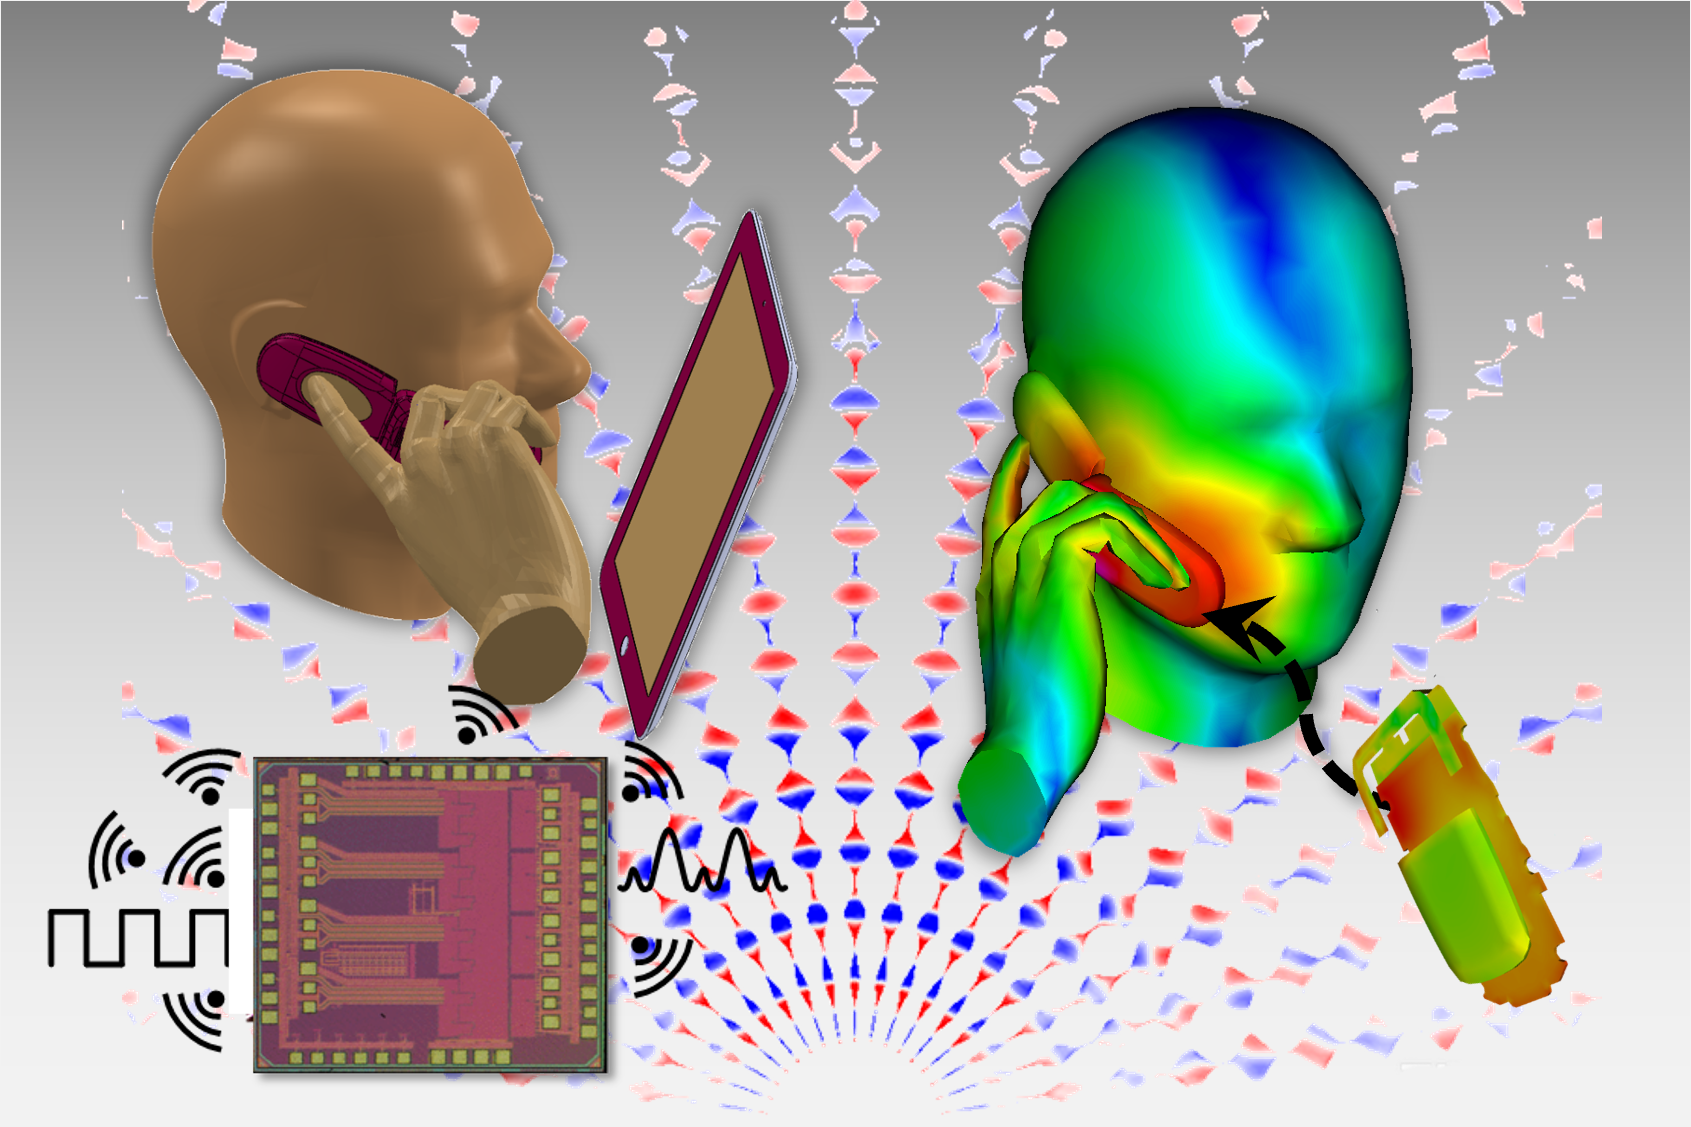
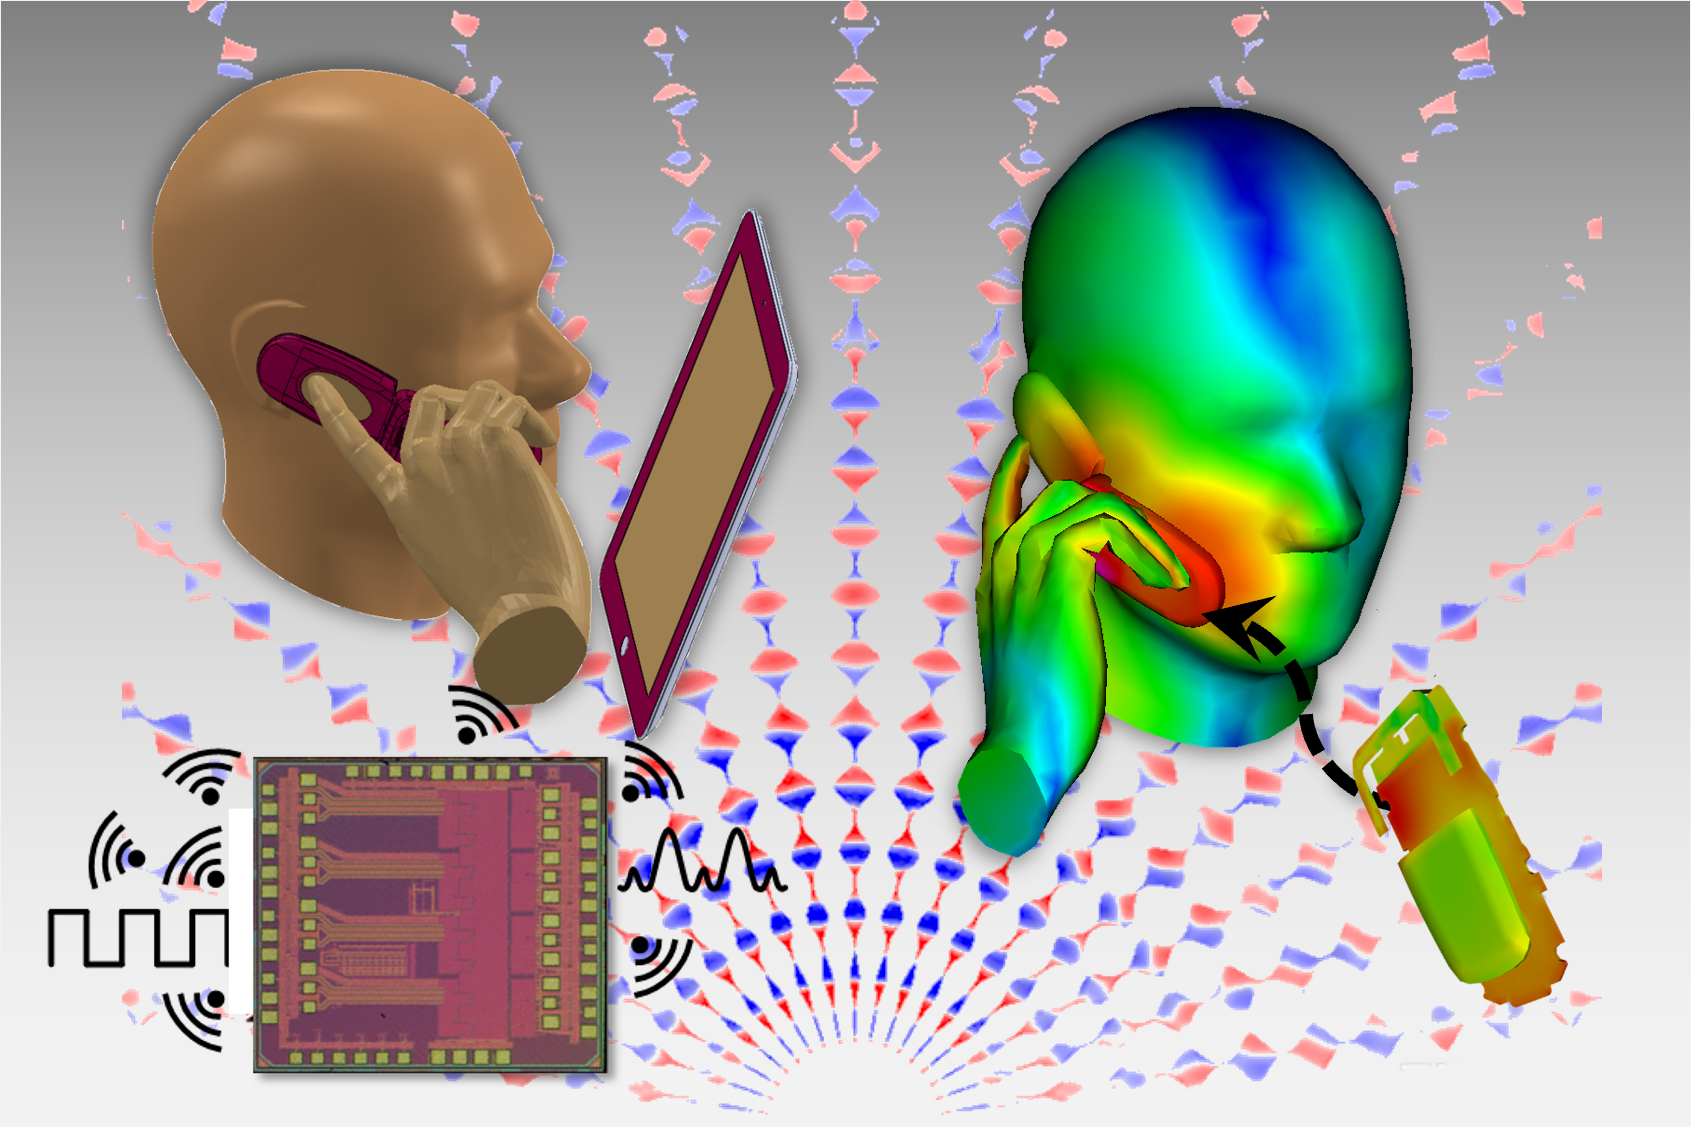
update

diff --git a/_projects/project_10_hmi.md b/_projects/project_10_hmi.md
@@ -1,0 +1,96 @@
+---
+layout: page
+title: Software
+description: software development, human-mahine interface 
+img: assets/img/projects/project_software.png
+importance: 10
+category: application
+research_id: hmi
+permalink: /projects/hmi/
+related_publications: false
+---
+
+Electronic systems provide an important example of strongly coupled
+multiphysics computation. Full-wave electromagnetic models are needed to
+capture wave propagation, radiation, coupling, and crosstalk, while
+integrated circuits may contain nonlinear and mixed-signal components that
+are more naturally treated by dedicated circuit simulators.1
+
+Every project has a beautiful feature showcase page.
+It's easy to include images in a flexible 3-column grid format.
+Make your photos 1/3, 2/3, or full width.
+
+To give your project a background in the portfolio page, just add the img tag to the front matter like so:
+
+    ---
+    layout: page
+    title: project
+    description: a project with a background image
+    img: /assets/img/12.jpg
+    ---
+
+<div class="row">
+    <div class="col-sm mt-3 mt-md-0">
+        {% include figure.liquid loading="eager" path="assets/img/1.jpg" title="example image" class="img-fluid rounded z-depth-1" %}
+    </div>
+    <div class="col-sm mt-3 mt-md-0">
+        {% include figure.liquid loading="eager" path="assets/img/3.jpg" title="example image" class="img-fluid rounded z-depth-1" %}
+    </div>
+    <div class="col-sm mt-3 mt-md-0">
+        {% include figure.liquid loading="eager" path="assets/img/5.jpg" title="example image" class="img-fluid rounded z-depth-1" %}
+    </div>
+</div>
+<div class="caption">
+    Caption photos easily. On the left, a road goes through a tunnel. Middle, leaves artistically fall in a hipster photoshoot. Right, in another hipster photoshoot, a lumberjack grasps a handful of pine needles.
+</div>
+<div class="row">
+    <div class="col-sm mt-3 mt-md-0">
+        {% include figure.liquid loading="eager" path="assets/img/5.jpg" title="example image" class="img-fluid rounded z-depth-1" %}
+    </div>
+</div>
+<div class="caption">
+    This image can also have a caption. It's like magic.
+</div>
+
+You can also put regular text between your rows of images.
+Say you wanted to write a little bit about your project before you posted the rest of the images.
+You describe how you toiled, sweated, _bled_ for your project, and then... you reveal its glory in the next row of images.
+
+<div class="row justify-content-sm-center">
+    <div class="col-sm-8 mt-3 mt-md-0">
+        {% include figure.liquid path="assets/img/6.jpg" title="example image" class="img-fluid rounded z-depth-1" %}
+    </div>
+    <div class="col-sm-4 mt-3 mt-md-0">
+        {% include figure.liquid path="assets/img/11.jpg" title="example image" class="img-fluid rounded z-depth-1" %}
+    </div>
+</div>
+<div class="caption">
+    You can also have artistically styled 2/3 + 1/3 images, like these.
+</div>
+
+The code is simple.
+Just wrap your images with `<div class="col-sm">` and place them inside `<div class="row">` (read more about the <a href="https://getbootstrap.com/docs/4.4/layout/grid/">Bootstrap Grid</a> system).
+To make images responsive, add `img-fluid` class to each; for rounded corners and shadows use `rounded` and `z-depth-1` classes.
+Here's the code for the last row of images above:
+
+{% raw %}
+
+```html
+<div class="row justify-content-sm-center">
+  <div class="col-sm-8 mt-3 mt-md-0">
+    {% include figure.liquid path="assets/img/6.jpg" title="example image" class="img-fluid rounded z-depth-1" %}
+  </div>
+  <div class="col-sm-4 mt-3 mt-md-0">
+    {% include figure.liquid path="assets/img/11.jpg" title="example image" class="img-fluid rounded z-depth-1" %}
+  </div>
+</div>
+```
+
+{% endraw %}
+
+--
+### Selected Projects & Collaborations
+
+- CERN BCM Calypso — electromagnetic modeling and simulation with [CYAN Research Program, OSU](https://cyan.engineering.osu.edu/)
+
+--

diff --git a/_projects/project_9_datai.md b/_projects/project_9_datai.md
@@ -2,7 +2,7 @@
 layout: page
 title: Scientific Data Learning
 description: data-driven methods for scientific computing
-img: assets/img/6.jpg
+img: assets/img/projects/project_datai.png
 importance: 9
 category: algorithm
 research_id: datai
